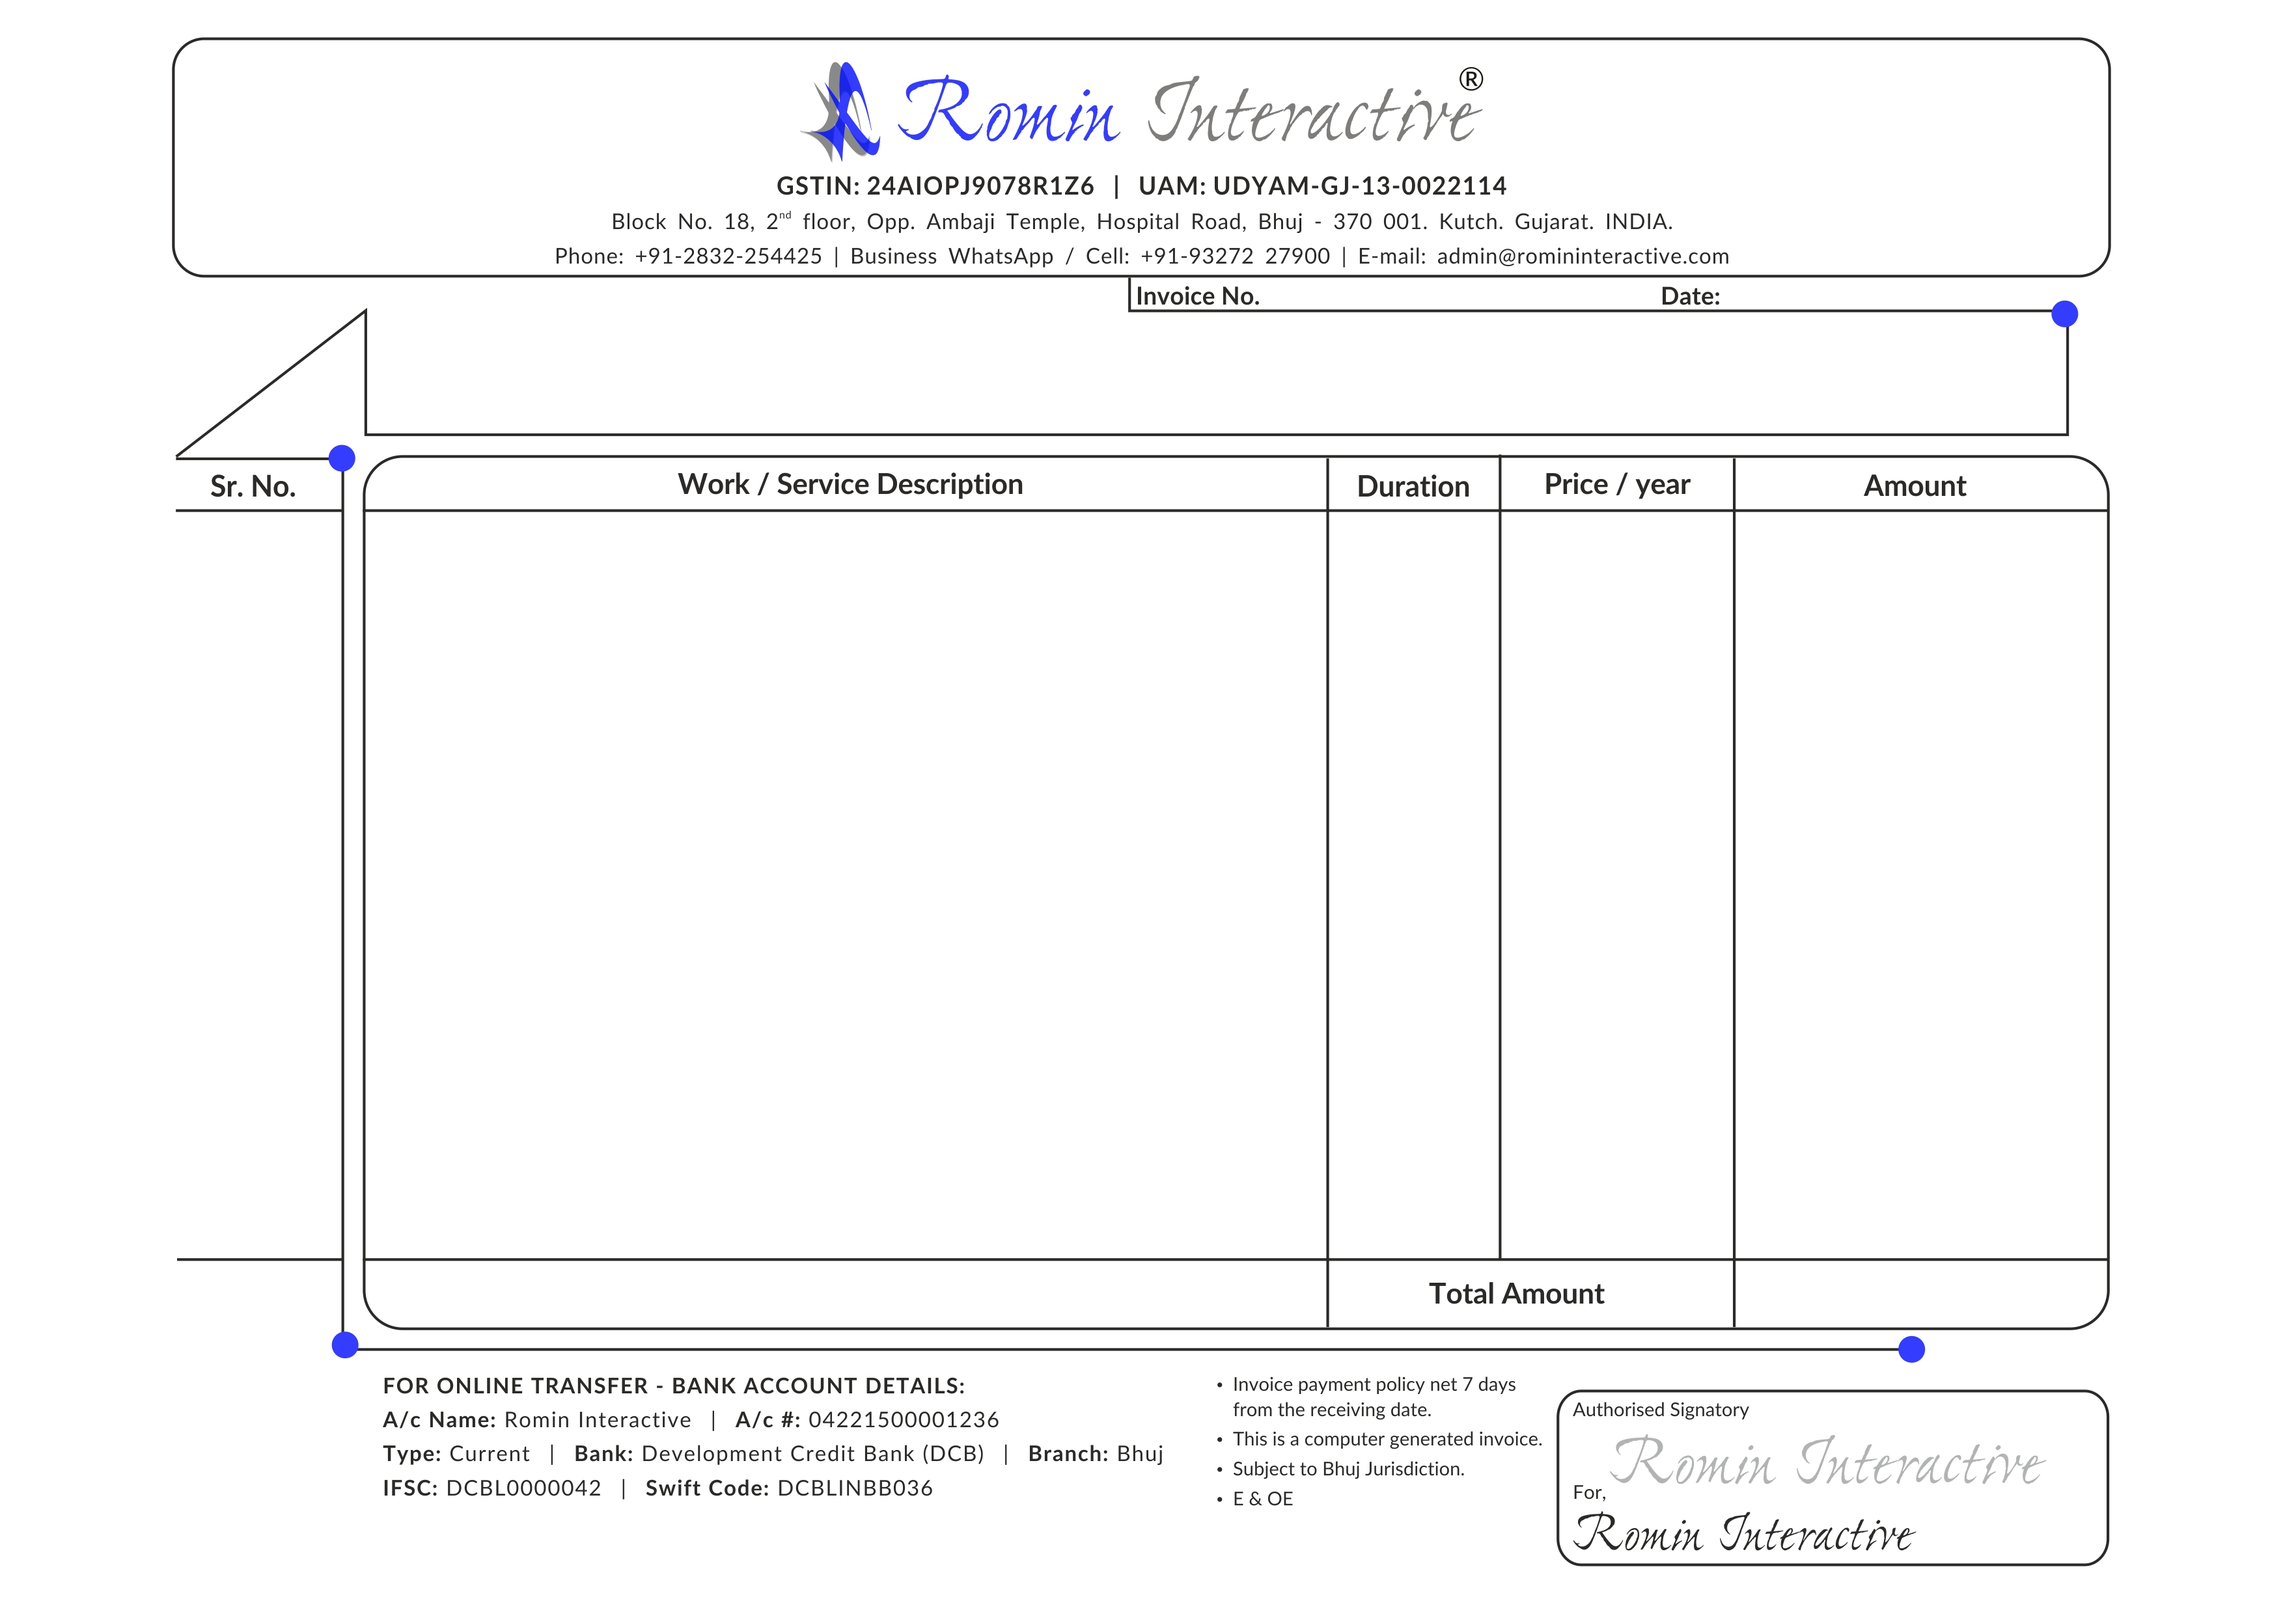
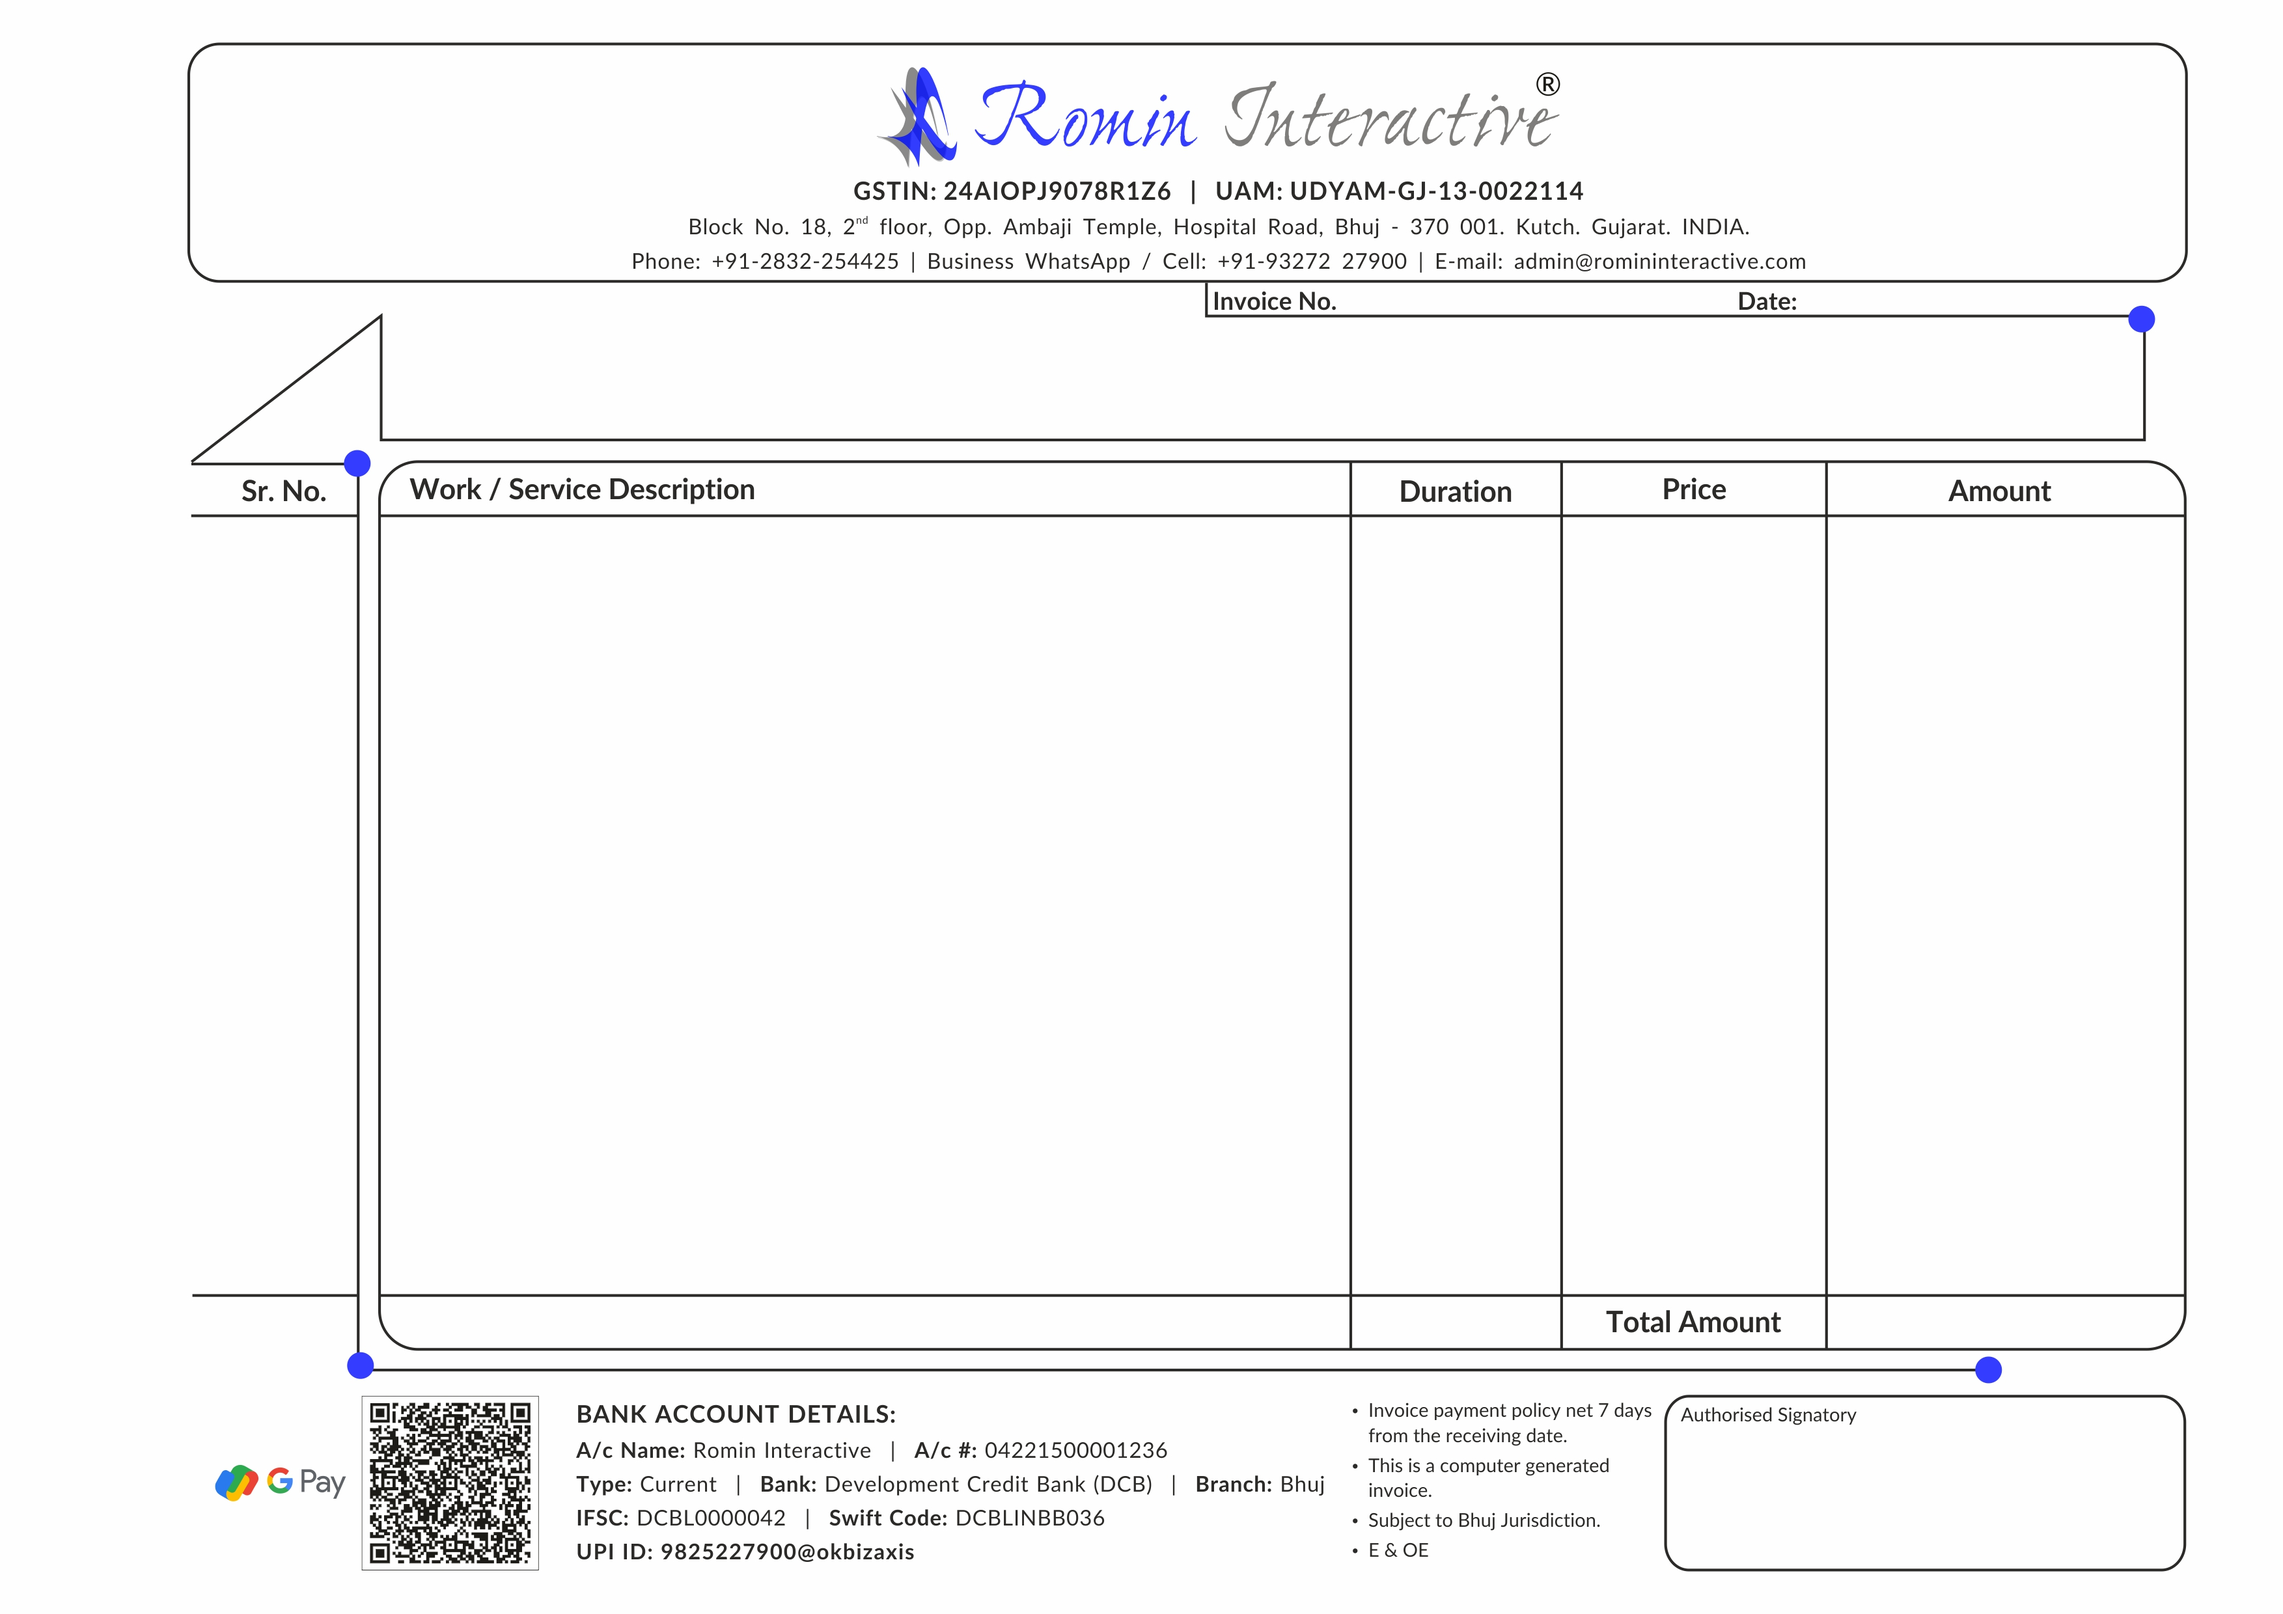
GST invoice format locked

Changed region(s): [[0.0932, 0.2484, 0.9324, 0.9935], [0.0932, 0.0, 0.9635, 0.2173]]

diff --git a/resources/views/invoices/print.blade.php b/resources/views/invoices/print.blade.php
@@ -15,8 +15,8 @@
             font-family: "Lato", sans-serif;
             background: url("{{ asset('invoice/bg.jpg') }}") no-repeat;
             background-size: cover;
-            width: 3310px;
-            height: 2482px;
+            width: 3507px;
+            height: 2480px;
             position: relative;
         }
 
@@ -25,8 +25,8 @@
         }
 
         .invoice-no {
-            top: 430px;
-            left: 1950px;
+            top: 435px;
+            left: 2070px;
             font-size: 40px;
         }
 
@@ -38,25 +38,25 @@
         }
 
         .invoice-date {
-            top: 430px;
-            left: 2655px;
+            top: 435px;
+            left: 2780px;
             font-size: 40px;
         }
 
         .client {
-            top: 490px;
+            top: 500px;
             left: 625px;
             font-size: 50px;
         }
 
         .address {
-            top: 585px;
+            top: 595px;
             left: 625px;
             font-size: 50px;
         }
 
         .gstin {
-            top: 490px;
+            top: 500px;
             left: 2400px;
             font-size: 50px;
         }
@@ -79,7 +79,7 @@
         #items {
             top: 800px;
             left: 275px;
-            width: 2965px;
+            width: 3070px;
             /* background-color: black; */
         }
 
@@ -110,26 +110,26 @@
         .col.item {
             width: 1446px;
             /* background-color: pink; */
-            margin-left: 38px;
-            padding-left: 30px;
+            margin-left: 100px;
+            /* padding-left: 30px; */
         }
 
         .col.duration {
-            width: 261px;
+            width: 320px;
             /* background-color: green; */
             margin-left: 4px;
             text-align: center;
         }
 
         .col.price {
-            width: 356px;
+            width: 400px;
             /* background-color: yellow; */
             margin-left: 4px;
             text-align: center;
         }
 
         .col.amount {
-            width: 571px;
+            width: 540px;
             /* background-color: blue; */
             margin-left: 4px;
             text-align: center;
@@ -141,10 +141,10 @@
         }
 
         .total {
-            top: 1955px;
-            left: 2670px;
+            top: 2000px;
+            left: 2805px;
             font-size: 50px;
-            width: 571px;
+            width: 540px;
             text-align: center;
             font-weight: bold;
         }
@@ -166,16 +166,16 @@
 
         .tax-value {
             top: 1700px;
-            left: 2670px;
+            left: 2805px;
             font-size: 50px;
-            width: 571px;
+            width: 540px;
             text-align: center;
             line-height: 80px;
         }
 
         .in-words {
-            top: 1955px;
-            left: 590px;
+            top: 2005px;
+            left: 650px;
             font-size: 40px;
             text-align: center;
         }
@@ -204,7 +204,7 @@
         @endif
 
         <div class="abs invoice-type">
-            PROFOMA INVOICE
+            PROFORMA INVOICE
         </div>
         <div class="abs invoice-no">{{ $invoice->invoice_no }}</div>
         <div class="abs invoice-date">{{ $invoice->date->format('d/F/Y') }}</div>
@@ -236,6 +236,7 @@
                 <div class="col item">
                     <p><b>DOMAIN:</b></p>
                     <p>{{ $domain->itemable->tld }}</p>
+                    <p><b>HSN/SAC:</b> 998315</p>
                 </div>
                 <div class="col duration">
                     <p>&nbsp;</p>
@@ -258,6 +259,7 @@
                 <div class="col sr"><p>{{ $rowCount++ }}.</p></div>
                 <div class="col item">
                     <p><b>WEB HOSTING: {{ $hosting->itemable->domain }}</b></p>
+                    <p><b>HSN/SAC:</b> 998315</p>
                     @if($hosting->itemable->package)
                     <table style="text-align: left;">
                         <tr>
@@ -296,6 +298,7 @@
                 <div class="col sr"><p>{{ $rowCount++ }}.</p></div>
                 <div class="col item">
                     <p><b>Google Workspace: {{ $email->itemable->domain }}</b></p>
+                    <p><b>HSN/SAC:</b> 998315</p>
                     <table style="text-align: left;">
                         <tr>
                             <th style="padding-right: 50px;">Email Accounts:</th>
@@ -324,6 +327,7 @@
                 <div class="col sr"><p>{{ $rowCount++ }}.</p></div>
                 <div class="col item">
                     <p><b>{{ $extra->line_title }}</b></p>
+                    <p><b>HSN/SAC:</b> 998314</p>
                     <p>{!! $extra->line_description !!}</p>
                 </div>
                 <div class="col duration">
@@ -369,11 +373,11 @@
 
         <div class="abs in-words"><b>Rupees: </b> {{ ucfirst($invoice->inWords()) }}</div>
 
-        <div class="abs warning">
+        <!-- <div class="abs warning">
             Due to a steady increase in the value of the US dollar, we will be increasing the prices of our Domains and Hosting services from March 2020. 
             While we were able to bear the Forex losses in the weeks before, the current and expected exchange rates have left us with no other option but 
             to adjust our prices. Thank you for your understanding.
-        </div>
+        </div> -->
     </div>
 </body>
 
